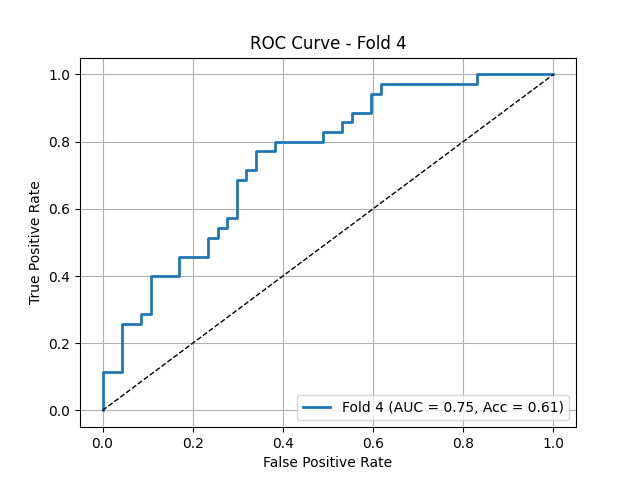
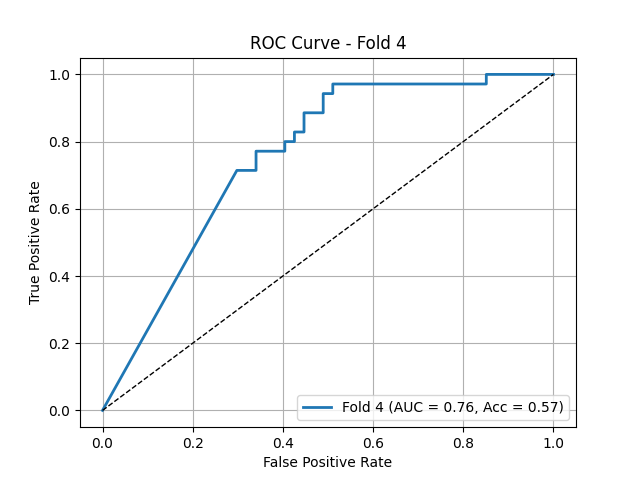
added the elastic transfrom

diff --git a/dataset_washu2.py b/dataset_washu2.py
@@ -81,7 +81,7 @@ train_transform = A.Compose([
     A.RandomRotate90(p=0.5),
 
 	A.ShiftScaleRotate(shift_limit=0.005, scale_limit=0.005, rotate_limit=10, border_mode=0, value=0, p=0.5), 
-    # A.ElasticTransform(alpha = 0.1, sigma = 50, p=0.8),
+    A.ElasticTransform(alpha = 5, sigma = 50, p=0.8),
     # A.GridDistortion(distort_limit=(-0.1,0.1), p=0.5),
 	# #A.GaussNoise(var_limit=(0.2, 0.44), p=1),
     # A.RandomBrightnessContrast(brightness_limit=(-0.3, 0.3), contrast_limit=(-0.1, 0.1), p=0.5),
